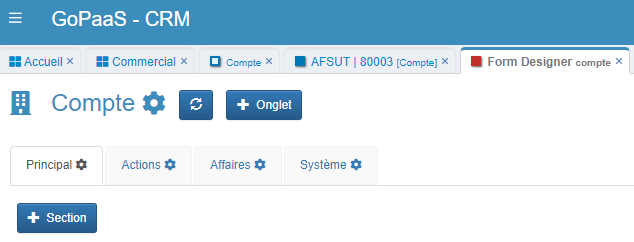
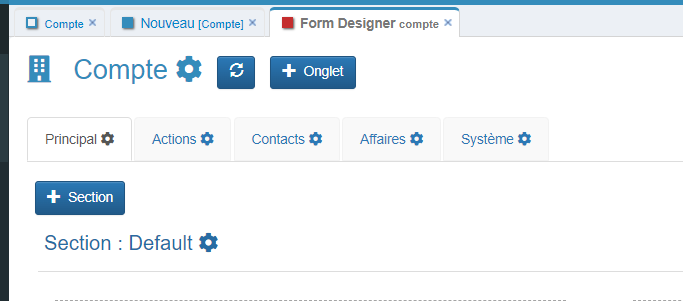
Formation / Compte : ajout vue contact.

diff --git a/formation/compte/readme.md b/formation/compte/readme.md
@@ -188,7 +188,8 @@ Voici un tableau avec une en-tête et 13 lignes :
 |------------------------|-----------------------------------------------|
 | Principal `Par défault`| 1                                             |
 | Actions                | 2                                             |
-| Affaires               | 3                                             |
+| Contact                | 3                                             |
+| Affaires               | 4                                             |
 | Système `Par défault`  | 10                                            |
 
 #### Ajouter un Onglet
@@ -209,14 +210,14 @@ Lorsque vous avez terminé la création des onglets, cliquez sur le bouton ![cap
 
 ![screenshot](images/image15.PNG)
 
-### Création des champs de type Vue
+### Création d'un champ de type Vue pour la table `Action`
 
-Pour créer une vue liée dans une fiche, rendez vous dans votre onglet `Actions` et suivez les étapes ci-dessous. Ces instructions vous guideront pour insérer une vue de la table souhaitée dans le FormDesigner de votre fiche compte et créer une nouvelle vue.
+Rendez vous dans votre onglet `Actions` et suivez les étapes ci-dessous.
 > La table nommée `Action` doit avoir été créée au préalable.
 
 ![screenshot](images/image16.PNG)
 
-#### Étape 1 : Créer une Nouvelle Vue
+#### Créer une Nouvelle Vue liée  `Action`
 
 * Se rendre sur la vue par défaut de la table `Action`
 * Cliquez sur le menu des vues ![screenshot](images/image17.jpg). 
@@ -235,14 +236,22 @@ Pour créer une vue liée dans une fiche, rendez vous dans votre onglet `Actions
 
 * Sauvegardez la vue.
 
-#### Étape 2 : Ajouter le champ de type `Vue` sur la table `Compte`
+#### Ajouter le champ de type `Vue` sur la table `Compte`
 
 * Accédez à votre FormDesigner de la table `Compte` et se rendre dans l'onglet `Actions`.
-* Cliquez sur le bouton `+` pour ajouter un nouveau champ.
+* Modifiez la `Section : Default` avec le bouton <img src="images/image26.png" width="28px" alt="capture">
 
 ![screenshot](images/image31.png)
 
-#### Étape 3 : Configurer le Champ
+* Mettre NB colonne a `1` et enregistrer la section.
+
+![screenshot](images/image34.png)
+
+* Cliquez sur le bouton `+` pour ajouter un nouveau champ.
+
+![screenshot](images/image44.png)
+
+#### Configurer le Champ
 
 | Nom des champs | Valeur                          |
 |----------------|-------------------------------|
@@ -252,27 +261,66 @@ Pour créer une vue liée dans une fiche, rendez vous dans votre onglet `Actions
 
 ![screenshot](images/image32.png)
 
-#### Étape 4 : Agencer dans le `FormDesigner`
-
-* Il n'y a qu'un seul champ de type `Vue` dans notre onglet, nous allons donc changer le paramètre de cette section.
-
-![screenshot](images/image33.png)
-
-* Modifiez la `Section : Default` avec le bouton <img src="images/image26.png" width="28px" alt="capture">.
-
-* Passer le `Nb Colonne` sur 1.
-> Vous pouvez si vous le souhaitez changer les autres valeurs.
-
-| Nom des champs | Valeur                          |
-|----------------|-------------------------------|
-| Intitulé            | Nom de la section |
-| Masquer titre | Si vous souhaitez afficher l'intitulé de la section, il faut décocher ce champ |
-| Ordre  | Ordre de la section dans l'onglet |
-
-![screenshot](images/image34.png)
-
-#### Étape 5 : Actualiser le `FormDesigner`
+#### Actualiser le `FormDesigner`
 
 * Une fois que vous avez terminé, cliquez sur le bouton ![capture](images/image10.png) pour mettre à jour le `FormDesigner` et visualiser les modifications.
 
 ![screenshot](images/image35.png)
+
+### Création d'un champ de type Vue pour la table `Contact`
+
+Rendez vous dans votre onglet `Contacts` et suivez les étapes ci-dessous.
+> La table nommée `Contact` doit avoir été créée au préalable.
+
+![screenshot](images/image36.png)
+
+#### Créer une Nouvelle Vue liée  `Contact`
+
+* Se rendre sur la vue par défaut de la table `Contact`
+* Cliquez sur le menu des vues ![screenshot](images/image17.jpg). 
+* Créez une nouvelle vue pour la table `Contact`. Nommons cette vue `LinkCompteContacts`.
+
+![screenshot](images/image37.png)
+   
+* Ajouter les colonnes dans la vue selon vos besoins.
+   
+![screenshot](images/image38.png)
+   
+* Condition **(-TrigItemName-)** pour la connexion avec le `Compte`.
+    > Le **(-TrigItemName-)** renvoie la clé de la fiche `Contact`.
+
+![screenshot](images/image39.png)
+
+* Sauvegardez la vue.
+
+#### Ajouter le champ de type `Vue` sur la table `Compte`
+
+* Accédez à votre FormDesigner de la table `Compte` et se rendre dans l'onglet `Contacts`.
+
+* Modifiez la `Section : Default` avec le bouton <img src="images/image26.png" width="28px" alt="capture">
+
+![screenshot](images/image41.png)
+
+* Mettre NB colonne a `1` et enregistrer la section.
+
+![screenshot](images/image40.png)
+
+* Cliquez sur le bouton `+` pour ajouter un nouveau champ.
+
+![screenshot](images/image42.png)
+
+#### Configurer le Champ
+
+| Nom des champs | Valeur                          |
+|----------------|-------------------------------|
+| Type            | Vue           |
+| Nom de la table | contact (table à partir de laquelle vous souhaitez insérer la vue) |
+| Nom champ   | nom de la vue que vous avez créée `LinkCompteContacts` |
+
+![screenshot](images/image43.png)
+
+#### Actualiser le `FormDesigner`
+
+* Une fois que vous avez terminé, cliquez sur le bouton ![capture](images/image10.png) pour mettre à jour le `FormDesigner` et visualiser les modifications.
+
+![screenshot](images/image45.png)
